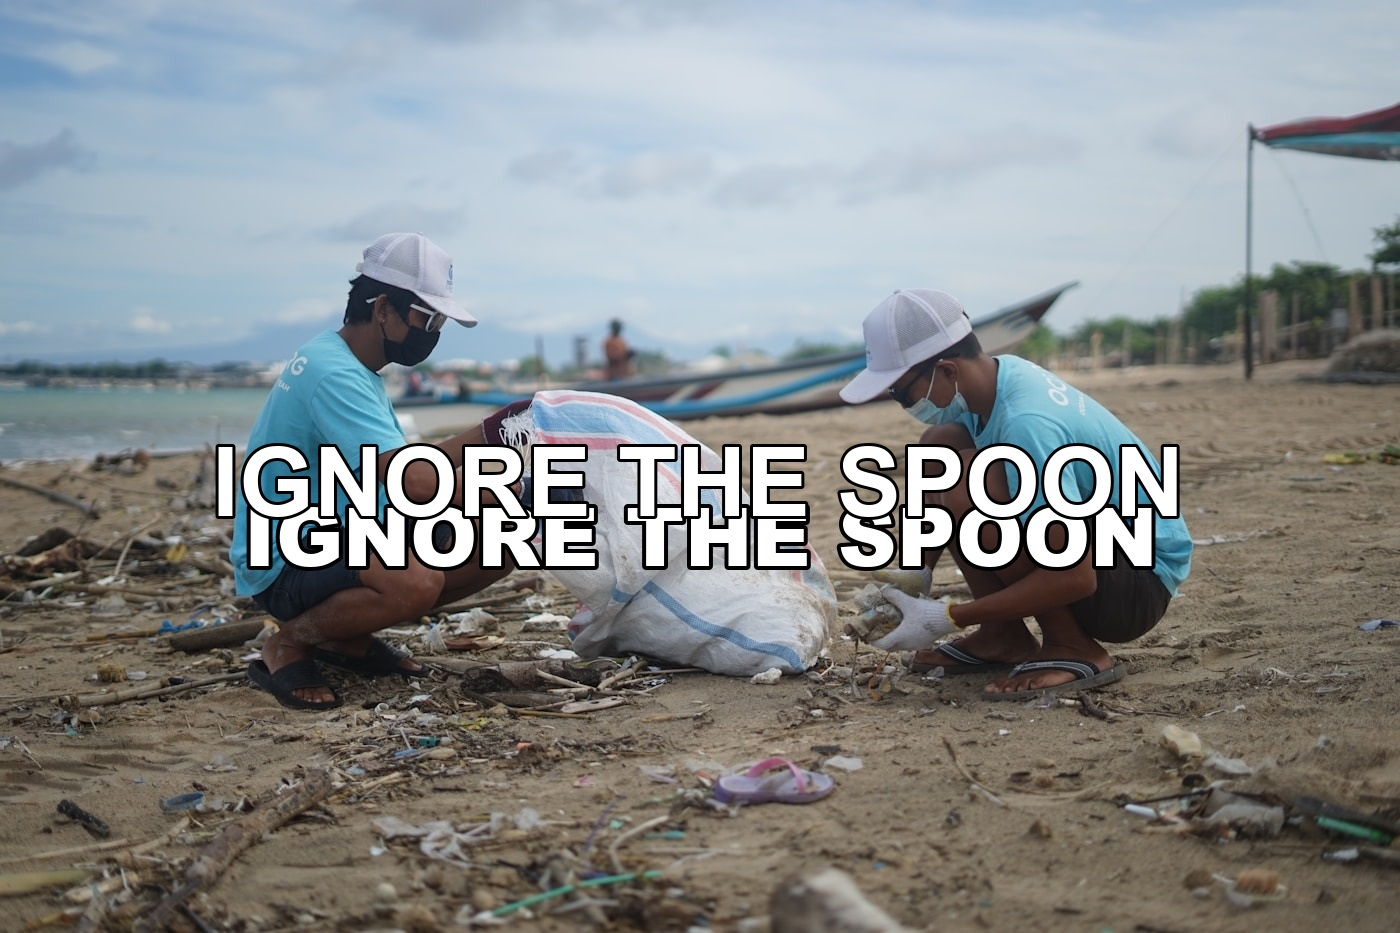
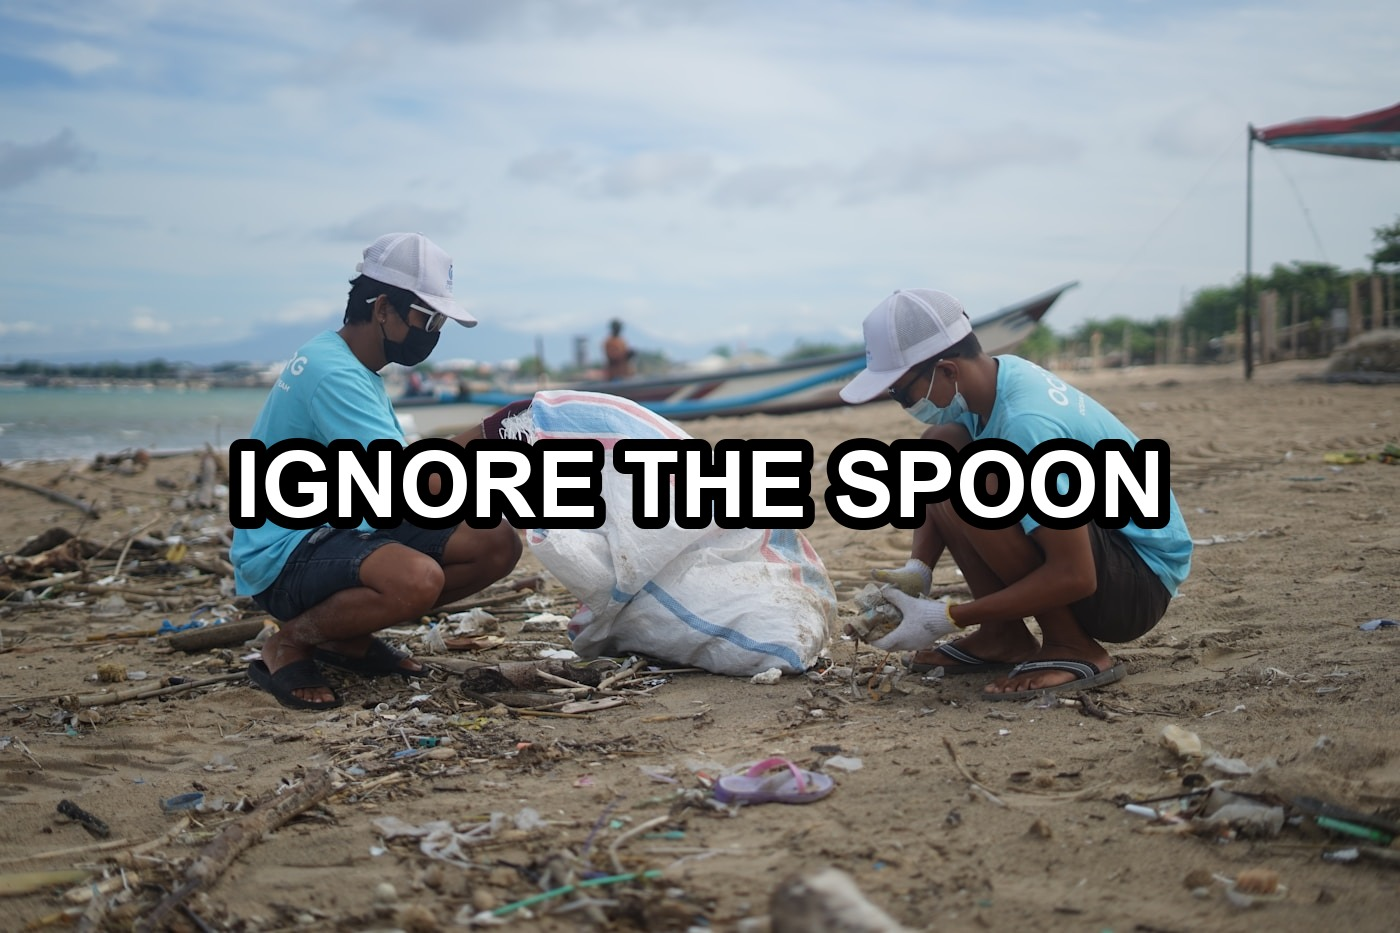
content(medium): microplastics review fixes + single-overlay hero

Changed region(s): [[0.1536, 0.4662, 0.86, 0.6217]]

diff --git a/nextjs/public/medium/youtube-microplastics-wmayvwnx4vY/index.html b/nextjs/public/medium/youtube-microplastics-wmayvwnx4vY/index.html
@@ -5,7 +5,7 @@
   <meta name="viewport" content="width=device-width, initial-scale=1">
   <meta name="robots" content="index,follow">
   <meta name="article:status" content="preview">
[2 lines of base64/hex data omitted]
   <link rel="canonical" href="https://www.maxpetrusenko.com/medium/youtube-microplastics-wmayvwnx4vY/">
   <title>You Are Scared of the Wrong Microplastics</title>
   <style>
@@ -91,26 +91,26 @@
 <figure><img src="/medium/youtube-microplastics-wmayvwnx4vY/images/body-frame-1.jpg" alt="Source-video frame: a Russian infographic comparing major microplastic sources, including textiles and tyre wear."></figure>
 <h2>Why the terrifying studies measure their own instruments</h2>
 <p>Microplastic is chemically dull and hard to see. Under a microscope a plastic fleck looks like every other tiny speck, so labs reach for pyrolysis gas chromatography and mass spectrometry: burn the sample in a vacuum, then read the molecular fragments that boil off. Before you can burn tissue, you have to dissolve the tissue away first, usually in hot alkali, until only the durable junk is left.</p>
-<p>That method is where the <a href="https://www.nature.com/articles/s41591-024-03453-1" target="_blank" rel="noopener noreferrer">brain study</a> that launched the spoon falls apart. After digestion, liver samples left about half a percent of their mass behind. Brain samples left a stubborn eight percent. Brain is a bad organ for this method: grey matter runs 35 to 40 percent lipid by dry weight, and the myelin around your neurons is about 78 percent fat. Burn brain lipid and it pyrolyses into fragments a machine struggles to tell from polyethylene. Some fat survived the wash and centrifuge, and the spoon got built from it. The alarming jump — 2024 brains holding half again more plastic than 2016 brains — collapses just as fast: the 2016 brains had sat in formalin for eight years, slowly breaking down, while the 2024 brains came in fresh.</p>
+<p>That method is where the <a href="https://www.nature.com/articles/s41591-024-03453-1" target="_blank" rel="noopener noreferrer">brain study</a> that launched the spoon falls apart. After digestion, liver samples left about half a percent of their mass behind. Brain samples left a stubborn eight percent. Brain is a bad organ for this method: grey matter runs 35 to 40 percent lipid by dry weight, and the myelin around your neurons is about 78 percent fat. Critics argue that residual brain lipids could produce pyrolysis fragments difficult to distinguish from polyethylene, potentially inflating the reported burden. The different preservation histories of the older and newer samples — the 2016 brains sat in formalin for eight years while the 2024 brains came in fresh — also complicate the claimed increase over time.</p>
 <p>The authors themselves flagged unknown organic molecules in the residue, and the word <em>spoon</em> is nowhere in their paper. It got manufactured downstream. Alexei Khokhlov, a polymer physicist at the Russian Academy of Sciences who dissected the study publicly, put it directly: there is no polyethylene in brain tissue, only ordinary biological structures. Independent specialists at <a href="https://www.nature.com/articles/s41591-025-04045-3" target="_blank" rel="noopener noreferrer">Nature Medicine</a>, the <a href="https://www.sciencemediacentre.org/expert-reaction-to-a-study-in-nature-medicine-looking-at-the-accumulation-of-microplastics-in-the-brains-of-dead-subjects/" target="_blank" rel="noopener noreferrer">Science Media Centre</a>, and <a href="https://www.thetransmitter.org/publishing/spoonful-of-plastics-in-your-brain-paper-has-duplicated-images/" target="_blank" rel="noopener noreferrer">The Transmitter</a> piled on. They flagged the same lipid confound plus thin contamination controls and duplicated images, and the paper earned a <a href="https://www.nature.com/articles/s41591-025-03675-x" target="_blank" rel="noopener noreferrer">formal correction</a>.</p>
 <p>The same lipid trap sits under the study everyone treats as the clincher. In 2024 the <a href="https://www.nejm.org/doi/10.1056/NEJMoa2309822" target="_blank" rel="noopener noreferrer">New England Journal of Medicine</a> reported that patients whose carotid plaque contained polyethylene ran roughly 4.5 times the risk of heart attack, stroke, or death over the next three years. A serious finding worth a hard follow-up. It is also observational, arterial plaque is built largely from cholesterol and other lipids, and the instrument found polyethylene plus a trace of PVC while missing nine other common household polymers. The authors say plainly that their statistics do not show plastic caused anything. The plastic may just mark a plaque that was already more dangerous.</p>
 <h2>Everything in the lab is already plastic</h2>
 <p>A modern lab is built from the exact material it is hunting: plastic containers, pipette tips, gloves, tubing. Anastasia Kosyanenko, an ecologist who has worked inside multiple microplastics labs, described what this looks like in practice. Samples arrive packed in polyethylene bags if they are soil, in plastic bottles if they are water. Microplastic analysis is not a quick process — it cannot be done in fifteen minutes, it takes trained staff and equipment — so samples pile up in storage. From the first sample analysed to the hundredth, six months can pass, and every sample has been sitting against the same plastic it is supposed to be tested for. Her verdict was direct: she would not underestimate how many researchers seed their own samples and then find the plastic themselves.</p>
-<p>Estimates for near-identical samples scatter by hundreds of times as a result, and some findings snap the body&#39;s own rules. One study reported plastic fibres three millimetres long floating in human blood, with polyethylene out in front. Only particles under ten micrometres cross the gut wall, and only those under one micrometre reach blood through the lung — so a three-millimetre fibre in the bloodstream is hundreds of times too big to be there. A Brazilian group topped it, reporting 25-micron fibres in the brain that supposedly climbed in through the nose and rode the olfactory neurons up. The blood study leaned on twenty people. One widely shared brain study came down to sixteen particles total. Extraordinary claims need extraordinary evidence, and a fibre that big should have to show its trick.</p>
+<p>Estimates for near-identical samples scatter by hundreds of times as a result, and some findings snap the body&#39;s own rules. One study reported plastic fibres three millimetres long floating in human blood, with polyethylene out in front. Only particles under ten micrometres cross the gut wall, and only those under one micrometre reach blood through the lung — so a three-millimetre fibre in the bloodstream is far larger than particles known to cross the gut or lung barriers efficiently, making contamination or an unrecognized pathway important alternatives to test. A Brazilian group topped it, reporting 25-micron fibres in the brain that supposedly climbed in through the nose and rode the olfactory neurons up. The blood study leaned on twenty people. One widely shared brain study came down to sixteen particles total. Extraordinary claims need extraordinary evidence, and a fibre that big should have to show its trick.</p>
 <figure><img src="/medium/youtube-microplastics-wmayvwnx4vY/images/body-frame-2.jpg" alt="Source-video frame: a French washing-machine microfibre-filter report illustrating a policy response to fibre pollution."></figure>
 <p>The bottled-water scare has the same shape. A genuinely clever <a href="https://www.pnas.org/doi/10.1073/pnas.2300582121" target="_blank" rel="noopener noreferrer">2024 method in PNAS</a> counted about 240,000 particles per litre, most of them nanoscale, and the headlines wrote themselves. Read the paper and it deflates twice. The count exploded while the total mass barely moved, because the new technique was simply catching tiny fragments older methods walked past. The dominant polymers — polyamide and polystyrene — are the stuff of reverse-osmosis water filters and laundry fibres, pointing the finger at the purification gear as much as the bottle. The study ran no glass or tap-water comparison, and a separate PNAS letter had to remind the field that these counts <a href="https://www.pnas.org/doi/10.1073/pnas.2411099121" target="_blank" rel="noopener noreferrer">mean little without proper blanks</a>.</p>
 <p>The blood pressure study is worth a pause. Eight subjects, five women and three men. No control group. An effect that showed up only in the right arm of the women, nowhere in the men, every reading inside the normal range. The actual punchline is buried at the end of the paper: the researchers never tested the water for microplastics. Not the bottled water, not the tap water, not the participants&#39; blood — at no point during the study did they measure a single plastic particle. They concluded that plastic affects blood pressure on the basis of plastic they never checked for. The field&#39;s own flagship journal ran a 2025 feature under a plain headline: <a href="https://www.nature.com/articles/d41586-025-00702-2" target="_blank" rel="noopener noreferrer">more rigorous science is needed</a>.</p>
 <p>Media takes it from there. A British tabloid recently published what it called twelve supposedly healthy foods packed with cancer-causing particles — carrots, rice, milk, honey, pink Himalayan salt. One citation linked to a study in which scientists fed nanoplastics to plants through the soil to observe the effect. The study was about wheat and lettuce. Carrots were not mentioned. The tabloid listed root vegetables as a threat anyway and moved on.</p>
 <h2>The risks that rarely trend</h2>
-<p>Set the artifacts aside and two real mechanisms are left standing, both quieter than a spoon. The first is chemistry riding inside the polymer. Additives such as DEHP, a plasticiser blended into flexible PVC, do appear to push up cardiovascular risk, and regulators already pulled BPA from food-can linings as a precaution. This is the workable kind of problem: find the bad additive and swap it out, the way we retired asbestos and leaded petrol once the harm was nailed down.</p>
+<p>Set the artifacts aside and two plausible concerns have firmer mechanistic footing, both quieter than a spoon. The first is chemistry riding inside the polymer — a separate question from the toxicity of the plastic particles themselves. Additives such as DEHP, a plasticiser blended into flexible PVC, do appear to push up cardiovascular risk, and regulators already pulled BPA from food-can linings as a precaution. This is the workable kind of problem: find the bad additive and swap it out, the way we retired asbestos and leaded petrol once the harm was nailed down.</p>
 <p>The second mechanism is stranger. Plastic surfaces turn out to be excellent rafts for bacteria, which settle on them in thick biofilms and trade antibiotic-resistance genes far more efficiently than they manage free-floating. Feed rats chunks of polyethylene and their guts inflame — the polymer became a substrate for a bacterial bloom, and the bloom did the damage. In places with heavy plastic waste and thin medical infrastructure, those floating platforms could help breed tougher pathogens. A slow structural danger with no viral headline attached.</p>
-<p>Then there is dose. Weigh microplastic against ordinary urban dust — silica, combustion carbon — and it comes to under one percent of the total. Airborne nanoplastic sits thousands of times below the level where PM2.5 soot does measurable harm. Wood sheds crystalline micro-dust in any timber sauna, and its combustion products are definitively carcinogenic, yet we treat a wooden bathhouse as the picture of health. Our bodies spent a long evolution clearing poorly degradable particles. None of that guarantees plastic is harmless; it means the exposure numbers still dwarf any harm anyone has proven.</p>
+<p>Then there is dose. Weigh microplastic against ordinary urban dust — silica, combustion carbon — and it comes to under one percent of the total. Airborne nanoplastic sits thousands of times below the level where PM2.5 soot does measurable harm. Wood sheds crystalline micro-dust in any timber sauna, and its combustion products are definitively carcinogenic, yet we treat a wooden bathhouse as the picture of health. Our bodies spent a long evolution clearing poorly degradable particles. None of that guarantees plastic is harmless; it means the gap between what we can detect and what we have demonstrated to be harmful remains enormous.</p>
 <h2>The one fact that should actually worry you</h2>
 <p>Here is the fact that actually earns the fear. Plastic accumulation in nature is effectively irreversible at scale. Releasing it is trivial and gathering it back is close to impossible — you cannot run mince back into a steak. The real risk is waking up twenty years from now to learn that some specific polymer should have been retired twenty years earlier, with two more decades of it loose in the world and no way to recall it. We can keep testing exposure and harm while cutting the releases that can never be undone.</p>
-<p>Against that, where regulatory attention lands is almost comic. The EU&#39;s flagship 2023 rule <a href="https://eur-lex.europa.eu/eli/reg/2023/2055/oj" target="_blank" rel="noopener noreferrer">bans intentionally added microplastics</a> — cosmetic microbeads, loose glitter, sports-pitch infill — covering roughly 42,000 tonnes a year. Tyres alone shed something like six million tonnes a year. No politician wants to make clothing pricier or fight the carmakers, so we go after the glitter. France did the serious thing and now <a href="https://www.legifrance.gouv.fr/loda/id/JORFTEXT000041553759/" target="_blank" rel="noopener noreferrer">requires microfibre filters on new washing machines</a> from 2025. Geography carries weight too: a <a href="https://www.science.org/doi/10.1126/sciadv.aaz5803" target="_blank" rel="noopener noreferrer">2021 river study</a> traced roughly a third of ocean-bound plastic to the Philippines, seven thousand islands and a hundred million people in the footprint of Italy, 150 million packages tossed out every day. And the single-metric ban loves to backfire. The plastic bag was engineered in 1959 to save the forests that paper bags eat.</p>
+<p>Against that, where regulatory attention lands is almost comic. The EU&#39;s flagship 2023 rule <a href="https://eur-lex.europa.eu/eli/reg/2023/2055/oj" target="_blank" rel="noopener noreferrer">bans intentionally added microplastics</a> — cosmetic microbeads, loose glitter, sports-pitch infill — covering roughly 42,000 tonnes a year. Tyres alone shed something like six million tonnes a year. Glitter and intentionally added microplastics are easier regulatory targets than tyres, textiles, and transport. France did the serious thing and now <a href="https://www.legifrance.gouv.fr/loda/id/JORFTEXT000041553759/" target="_blank" rel="noopener noreferrer">requires microfibre filters on new washing machines</a> from 2025. Geography carries weight too: a <a href="https://www.science.org/doi/10.1126/sciadv.aaz5803" target="_blank" rel="noopener noreferrer">2021 river study</a> traced roughly a third of ocean-bound plastic to the Philippines, seven thousand islands and a hundred million people in the footprint of Italy, 150 million packages tossed out every day. And the single-metric ban loves to backfire. The plastic bag was engineered in 1959 to save the forests that paper bags eat.</p>
 <figure><img src="/medium/youtube-microplastics-wmayvwnx4vY/images/body-frame-3.jpg" alt="Source-video frame: European Commission regulation graphic on restricting intentionally added microplastics."></figure>
 <h2>What to do with all this</h2>
-<p>The useful moves aim at the sources that actually dominate. Filters on washing machines and interception barriers on rivers catch fibres and litter before the sun and surf grind them into anything measurable. Engineered microbes are gaining too. A pond bacterium found in 1975 had already evolved an enzyme to eat nylon, a material people invented in 1935, about as clean a demonstration of evolution in real time as exists. In 2016 a strain called <em><a href="https://www.science.org/doi/10.1126/science.aad6359" target="_blank" rel="noopener noreferrer">Ideonella sakaiensis</a></em> turned up at a Japanese recycling plant digesting PET, and labs are racing to make its enzyme faster. On the personal side the list is short and unglamorous: choose natural fibres over synthetics, wash the synthetics you own less often, take transit when the car is optional, buy one less plastic thing you do not need. There are a lot of us, and small moves add up.</p>
+<p>The useful moves aim at the sources that actually dominate. Filters on washing machines and interception barriers on rivers catch fibres and litter before the sun and surf grind them into anything measurable. Engineered microbes are gaining too. A pond bacterium found in 1975 had already evolved an enzyme to eat nylon, a material people invented in 1935, about as clean a demonstration of evolution in real time as exists. In 2016 a strain called <em><a href="https://www.science.org/doi/10.1126/science.aad6359" target="_blank" rel="noopener noreferrer">Ideonella sakaiensis</a></em> turned up at a Japanese recycling plant digesting PET, and labs are racing to make its enzyme faster. That shows degradation pathways can evolve, not that nature will clean the ocean for us — at best it makes engineered remediation technically possible down the road. On the personal side the list is short and unglamorous: choose natural fibres over synthetics, wash the synthetics you own less often, take transit when the car is optional, buy one less plastic thing you do not need. There are a lot of us, and small moves add up.</p>
 <p>The practical case never needed the spoon. The deeper hazard in the whole microplastic story is that debunkable hype eventually discredits the real concern, so that when a genuine harm finally surfaces, a burned-out public waves it off as one more scare in a decade of scares. Put the attention on the irreversible part. Let the cutlery metaphor go. For a useful next read, try <a href="https://medium.com/@max.petrusenko/scientists-have-confirmed-what-the-body-already-knew-a6ee8afb8283" target="_blank" rel="noopener noreferrer">Scientists Have Confirmed What the Body Already Knew</a>, another piece about a hidden biological system that shapes everyday life.</p>
 <h2>Sources</h2>
 <p><a href="https://www.science.org/doi/10.1126/sciadv.1700782" target="_blank" rel="noopener noreferrer">8.3 billion tonnes of virgin plastic</a> | <a href="https://www.nature.com/articles/s41586-020-3010-5" target="_blank" rel="noopener noreferrer">rivals the mass of every living thing on Earth</a> | <a href="https://www.pnas.org/doi/10.1073/pnas.2204892120" target="_blank" rel="noopener noreferrer">roughly 20 million tonnes of wild land mammals</a> | <a href="https://portals.iucn.org/library/sites/library/files/documents/2017-002-En.pdf" target="_blank" rel="noopener noreferrer">IUCN&#39;s global source audit</a> | <a href="https://www.nature.com/articles/s41591-024-03453-1" target="_blank" rel="noopener noreferrer">brain study</a></p>
